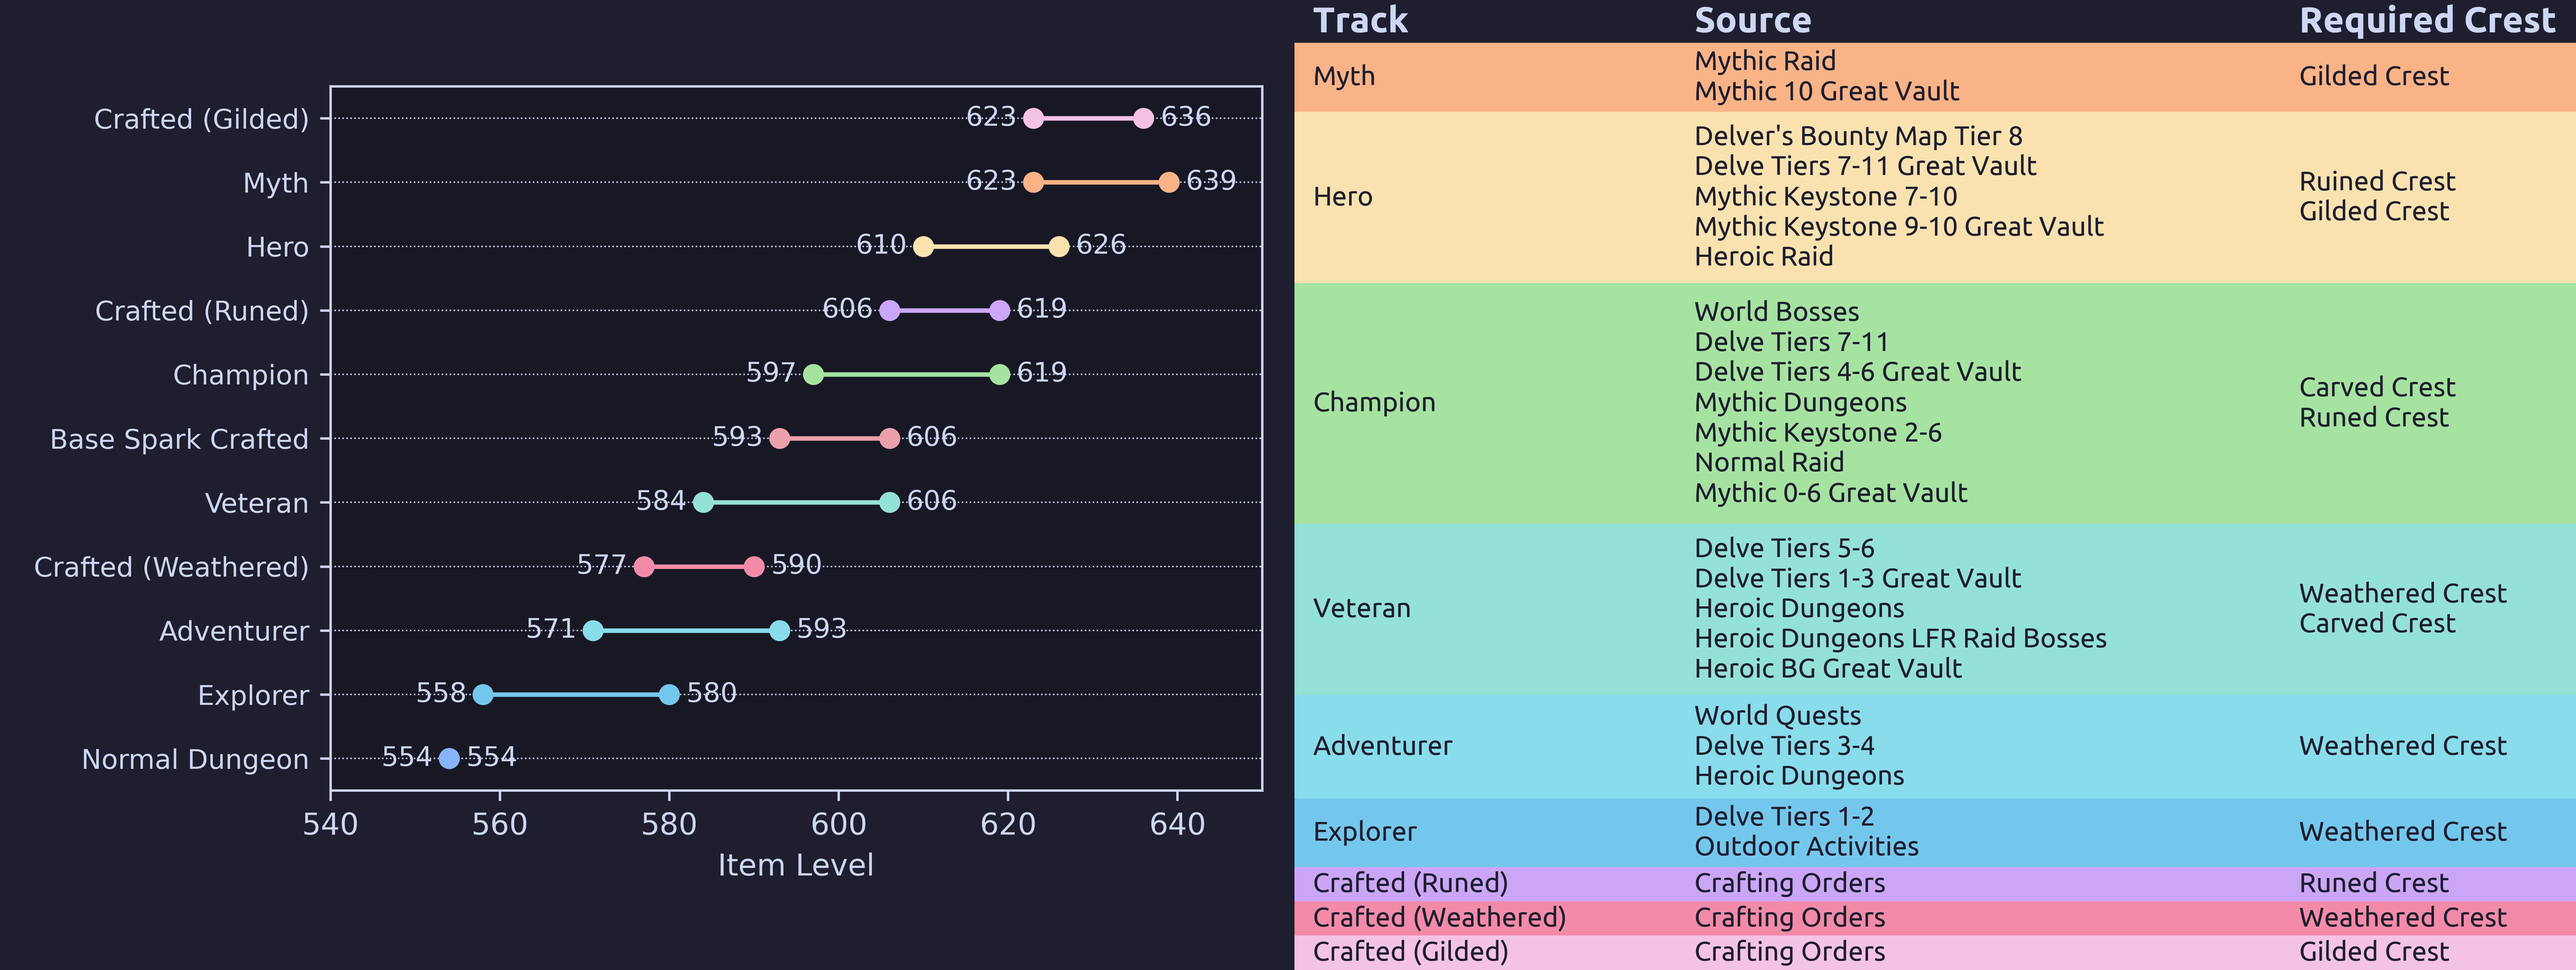
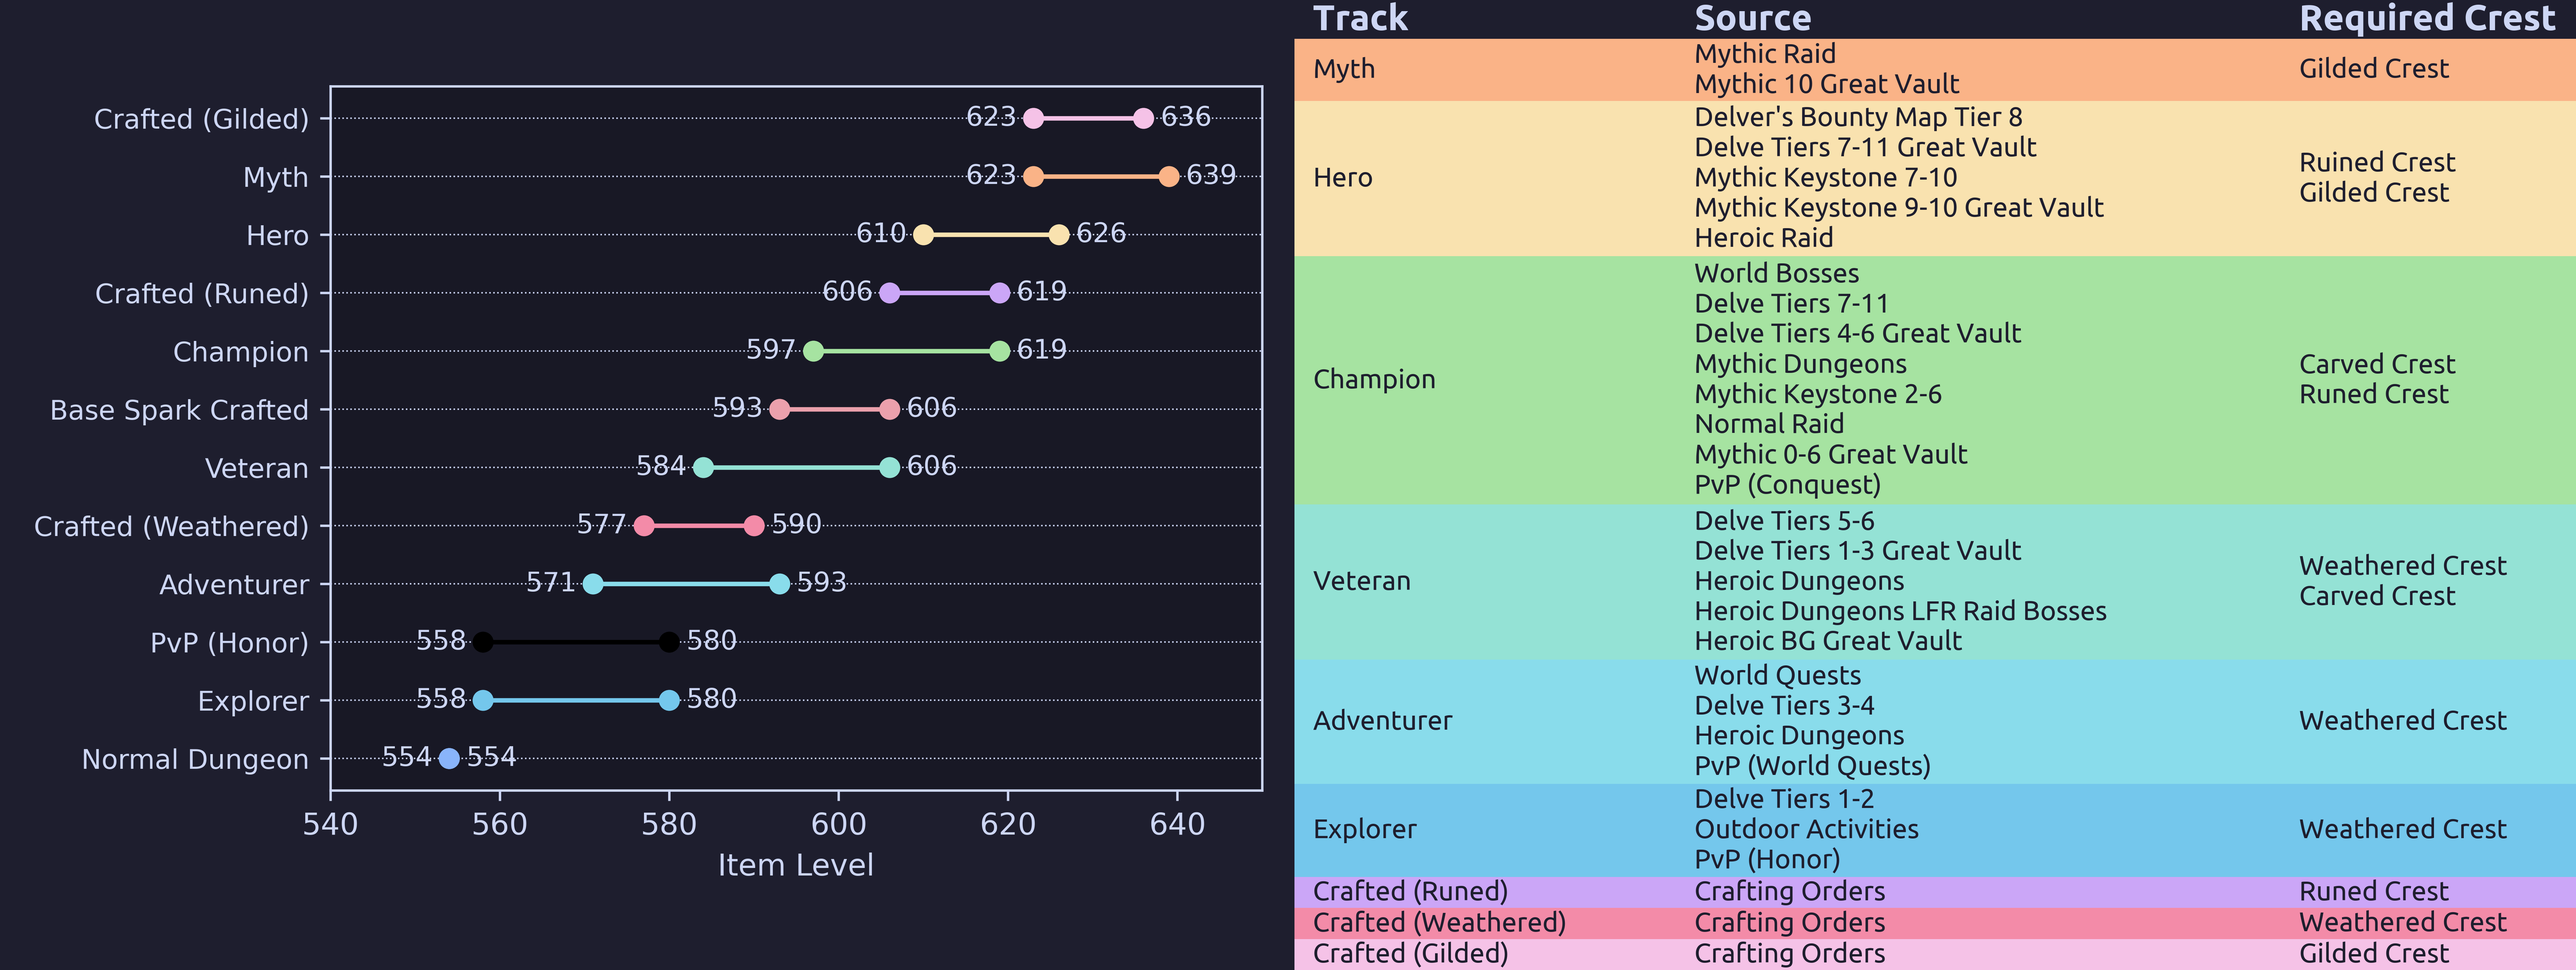
update info to include pvp

diff --git a/gear_prog/data.py b/gear_prog/data.py
@@ -53,6 +53,8 @@ gear_score_data = {
     'Crafted (Weathered)': {'Starting Item Level': 577, 'Max Item Level': 590},
     'Crafted (Runed)': {'Starting Item Level': 606, 'Max Item Level': 619},
     'Crafted (Gilded)': {'Starting Item Level': 623, 'Max Item Level': 636},
+    'PvP (Honor)': {'Starting Item Level': 558, 'Max Item Level': 580},
+
 }
 
 gear_source_data = {
@@ -79,6 +81,7 @@ gear_source_data = {
             "Mythic Keystone 2-6",
             "Normal Raid",
             "Mythic 0-6 Great Vault",
+            "PvP (Conquest)",
         ],
         "Required Crest": "Carved Crest\nRuned Crest",
     },
@@ -93,11 +96,16 @@ gear_source_data = {
         "Required Crest": "Weathered Crest\nCarved Crest",
     },
     "Adventurer": {
-        "Source": ["World Quests", "Delve Tiers 3-4", "Heroic Dungeons"],
+        "Source": ["World Quests", 
+                   "Delve Tiers 3-4", 
+                   "Heroic Dungeons", 
+                   "PvP (World Quests)"],
         "Required Crest": "Weathered Crest",
     },
     "Explorer": {
-        "Source": ["Delve Tiers 1-2", "Outdoor Activities"],
+        "Source": ["Delve Tiers 1-2", 
+                   "Outdoor Activities",
+                   "PvP (Honor)"],
         "Required Crest": "Weathered Crest",
     },
     "Crafted (Runed)": {
